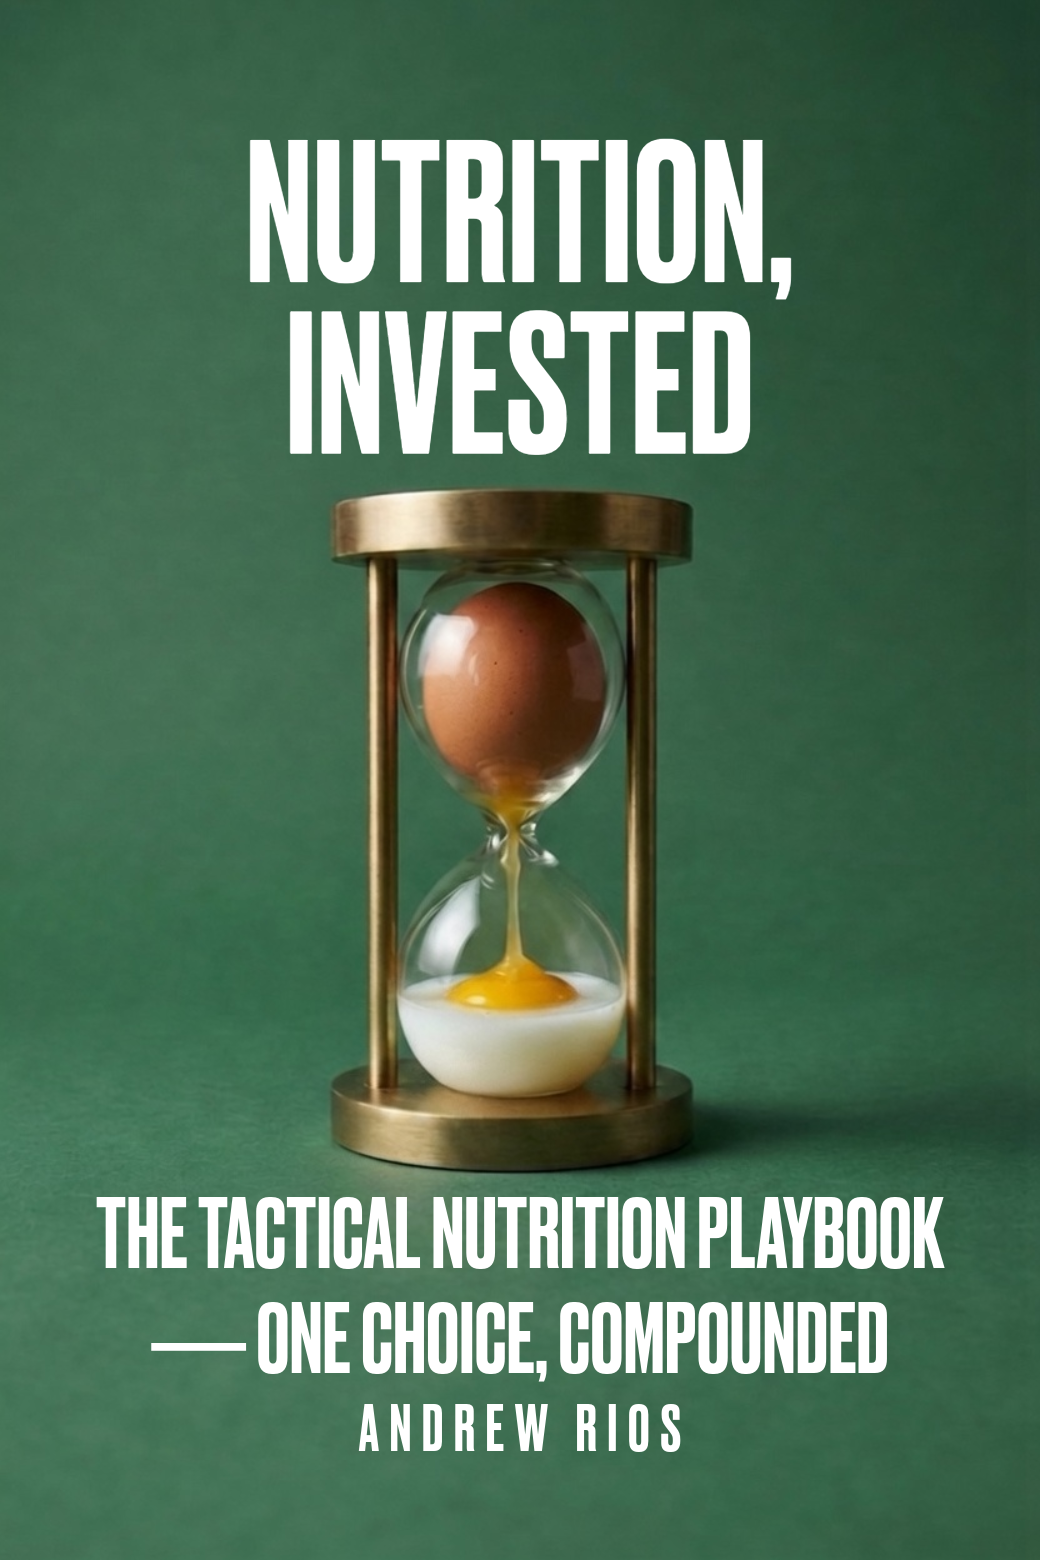
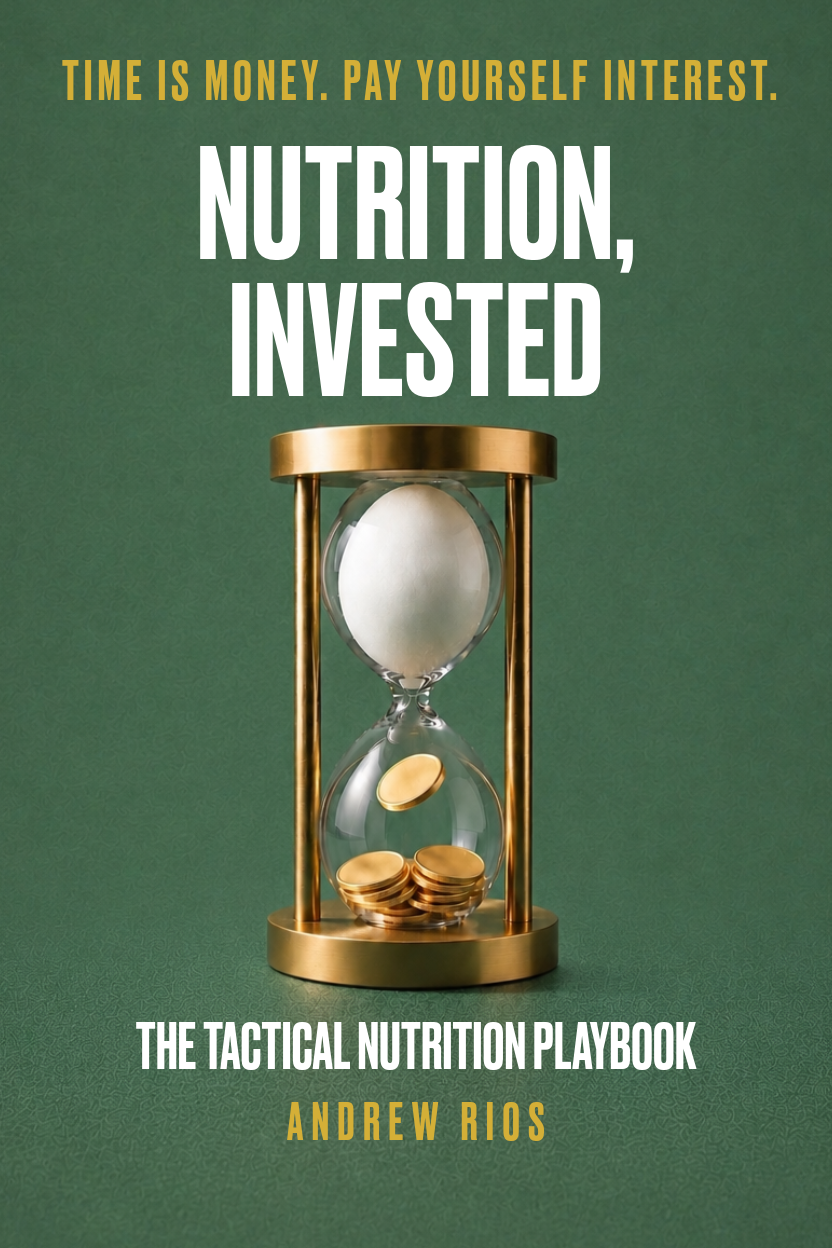
Echo new cover's gold tagline in site accents; swap in new cover art
- Replace cover.png with the new edition (832x1248; gold tagline, gold
  coins) and update the img's intrinsic width/height
- Gold #D4AF37 micro-accents mirroring the cover: headline em dash
  (decorative, aria-hidden), Read the Receipts underline (text stays
  white for AA), Verified Purchase checkmark; stars already gold
- Teal hairlines: Quick Bites rule and about-card rules tinted with new
  --teal-rgb token instead of neutral black, matching the teal detail
  borders

Claude-Session: https://claude.ai/code/session_015CzSukbpfkbLAF9bnERYS3

Changed region(s): [[0.0, 0.0, 1.0, 0.9375], [0.0625, 0.875, 0.125, 0.9375], [0.7188, 0.25, 0.75, 0.2812]]

diff --git a/index.html b/index.html
@@ -45,7 +45,8 @@
       --color-body: #333333;
       --color-muted: #6E6E73;
       --color-gold: #D4AF37;
-      --line-teal: rgba(44, 110, 99, 0.32);
+      --teal-rgb: 44, 110, 99;
+      --line-teal: rgba(var(--teal-rgb), 0.32);
       --color-white: #ffffff;
       --color-bar-bg: var(--color-accent);
       --font: system-ui, -apple-system, BlinkMacSystemFont, 'SF Pro Text', 'Segoe UI', Roboto, 'Helvetica Neue', Arial, sans-serif;
@@ -279,7 +280,7 @@
       letter-spacing: var(--track-wide); text-transform: uppercase; text-align: center;
       line-height: 1; margin-bottom: 20px;
     }
-    .about-rule { width: 100%; height: 1px; background: rgba(0,0,0,0.07); margin-bottom: 20px; flex-shrink: 0; }
+    .about-rule { width: 100%; height: 1px; background: rgba(var(--teal-rgb), 0.16); margin-bottom: 20px; flex-shrink: 0; }
     .about-bio {
       font-size: var(--text-body); color: var(--color-body); line-height: 1.6;
       text-align: center; user-select: text; -webkit-user-select: text; margin-bottom: 12px;
@@ -349,7 +350,7 @@
       letter-spacing: var(--track-tight); color: var(--color-body); line-height: 1.4;
     }
     .headline .price { color: var(--color-accent); font-weight: 700; }
-    .headline .divider { color: var(--color-muted); margin: 0 var(--sp-1); font-weight: 400; }
+    .headline .divider { color: var(--color-gold); margin: 0 var(--sp-1); font-weight: 400; }
 
     .buttons { width: 100%; display: flex; flex-direction: column; gap: 8px; }
     .buy-btn {
@@ -412,7 +413,7 @@
       .page-2-platter.has-more .more-cue svg { animation: chevron-pulse 1.6s ease-in-out infinite; }
     }
 
-    .page-2-rule { width: calc(100% - 48px); height: 1px; background: rgba(0, 0, 0, 0.08); margin: 16px 24px 0 24px; flex-shrink: 0; }
+    .page-2-rule { width: calc(100% - 48px); height: 1px; background: rgba(var(--teal-rgb), 0.18); margin: 16px 24px 0 24px; flex-shrink: 0; }
 
     .blurb-scroll-wrapper {
       flex: 1; position: relative; min-height: 0; display: flex; flex-direction: column; margin: 14px 0 14px 0;
@@ -486,7 +487,7 @@
     .counter-bar-tagline { font-size: var(--text-body); font-weight: 500; color: var(--color-white); line-height: 1.4; text-align: right; }
     .counter-receipts-link {
       appearance: none; border: 0; background: none; color: rgba(255,255,255,0.9); font: inherit; font-size: var(--text-caption);
-      font-weight: 600; letter-spacing: 0.02em; text-decoration: underline; text-underline-offset: 2px; padding: 0; cursor: pointer; transition: opacity 0.2s ease, transform var(--timing-spring);
+      font-weight: 600; letter-spacing: 0.02em; text-decoration: underline; text-decoration-color: var(--color-gold); text-underline-offset: 2px; padding: 0; cursor: pointer; transition: opacity 0.2s ease, transform var(--timing-spring);
       position: relative;
     }
     .counter-receipts-link::after { content: ''; position: absolute; inset: -13px -8px; }
@@ -574,7 +575,7 @@
 
       <div class="cover-wrapper">
         <a href="https://read.amazon.com/kp/kshare?asin=B0F1RX4JWV&id=m63qwfvltfhkvpcw4t4djigtte&reshareId=NTSJ2YDH4KJ5RT2F1EXV&reshareChannel=system" target="_blank" rel="noopener">
-          <img src="./cover.png" alt="Nutrition, Invested book cover" width="1040" height="1560" fetchpriority="high" decoding="async">
+          <img src="./cover.png" alt="Nutrition, Invested book cover" width="832" height="1248" fetchpriority="high" decoding="async">
         </a>
       </div>
 
@@ -587,7 +588,7 @@
       </a>
 
       <div class="content-platter">
-        <h1 class="headline">Get the Playbook<span class="divider">—</span><span class="price">$9.99</span></h1>
+        <h1 class="headline">Get the Playbook<span class="divider" aria-hidden="true">—</span><span class="price">$9.99</span></h1>
 
         <div class="buttons">
           <a href="https://www.amazon.com/dp/B0F1RX4JWV" target="_blank" rel="noopener" class="buy-btn primary">
@@ -768,7 +769,7 @@
               <div class="counter-quote-meta-text">
                 <span id="reader-quote-name" class="counter-quote-name"></span>
                 <span id="reader-quote-handle" class="counter-quote-verified">
-                  <svg xmlns="http://www.w3.org/2000/svg" width="12" height="12" viewBox="0 0 24 24" fill="white" fill-opacity="0.72" aria-hidden="true">
+                  <svg xmlns="http://www.w3.org/2000/svg" width="12" height="12" viewBox="0 0 24 24" fill="var(--color-gold)" aria-hidden="true">
                     <path d="M12 2C6.477 2 2 6.477 2 12s4.477 10 10 10 10-4.477 10-10S17.523 2 12 2zm4.707 7.707-5.657 5.657a1 1 0 0 1-1.414 0l-2.829-2.828a1 1 0 0 1 1.414-1.414L10.293 13.293l4.95-4.95a1 1 0 0 1 1.414 1.414z"/>
                   </svg>
                   Verified Purchase
